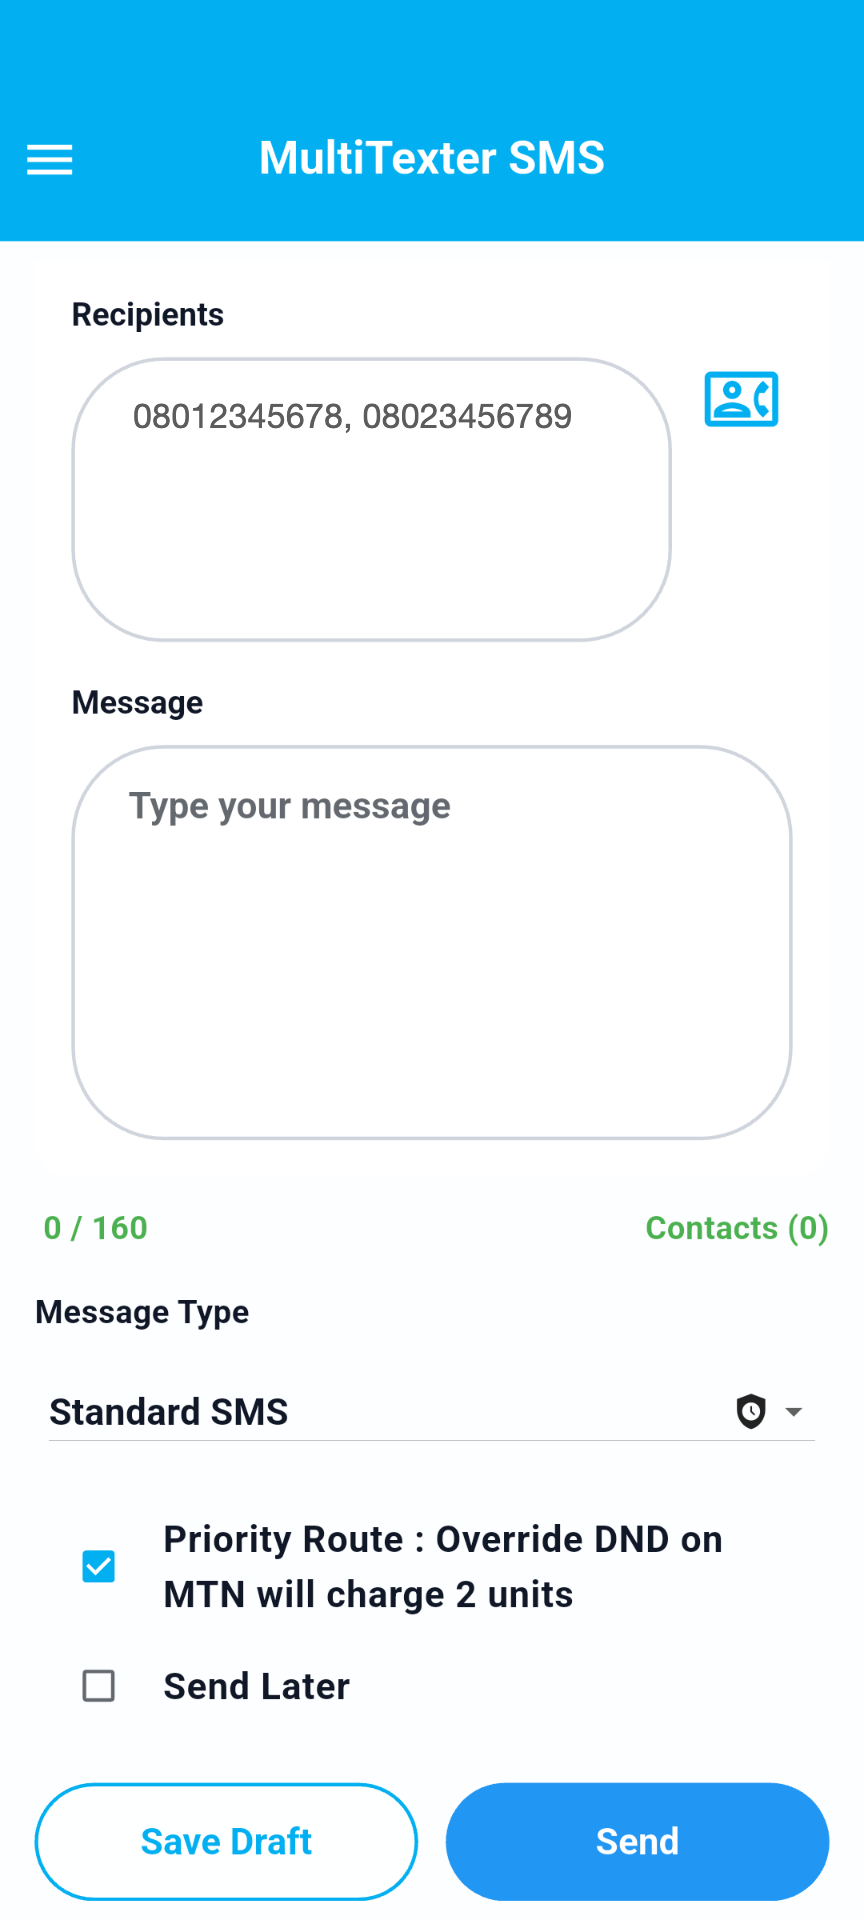
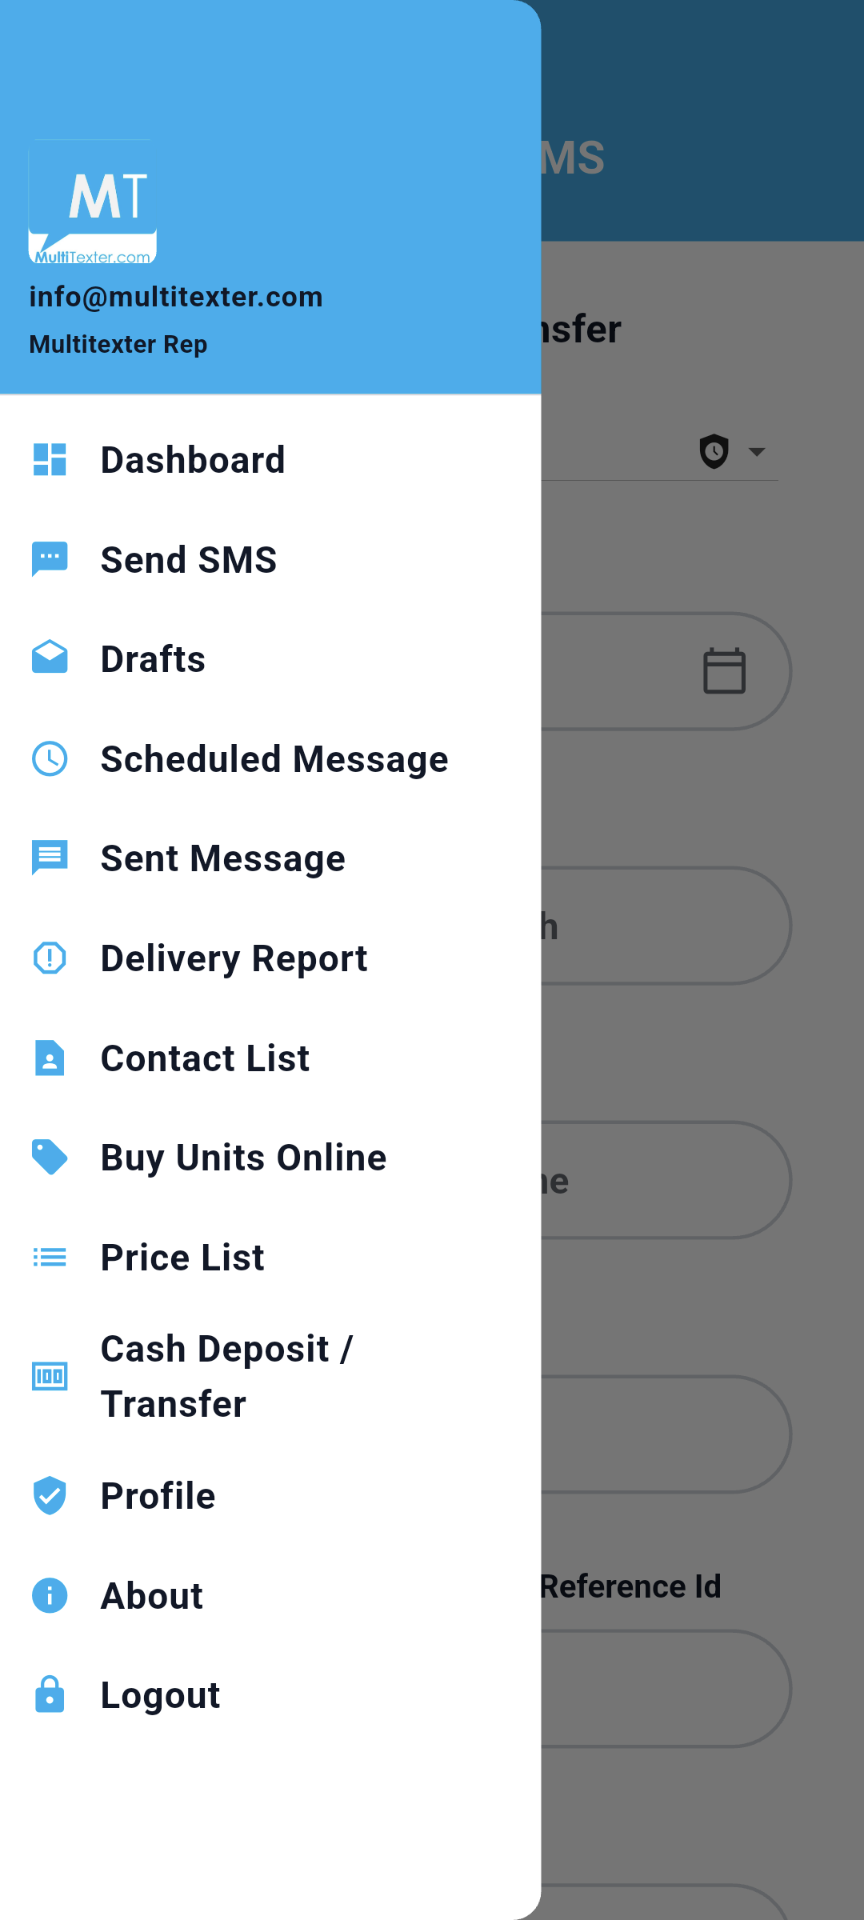
Use the navigation drawer shot for MultiTexter
Fit the whole screen in frame with a smaller phone and object-fit
contain, so the full menu is visible rather than cropped.

diff --git a/index.html b/index.html
@@ -363,6 +363,12 @@
   .work-card:hover .work-media .phone { transform: translateY(-10px); }
   .work-media .phone.crop-top img { object-position: center bottom; }
 
+  /* Fits a whole screen in frame instead of cropping to fill it */
+  .work-media.fit-shot { align-items: center; padding-top: 0; }
+  .work-media.fit-shot .phone { width: 136px; border-width: 4px; border-radius: 24px; }
+  .work-media.fit-shot .phone::after { width: 40px; height: 9px; top: 6px; }
+  .work-media.fit-shot .phone img { object-fit: contain; }
+
   .work-cover {
     position: relative;
     height: 300px;
@@ -804,10 +810,10 @@
 
         <!-- MultiTexter -->
         <article class="work-card reveal">
-          <div class="work-media">
+          <div class="work-media fit-shot">
             <span class="status status-building">Launching soon</span>
             <div class="phone">
-              <img src="images/multitexter.png" alt="MultiTexter dashboard showing unit balance and quick actions" loading="lazy"
+              <img src="images/multitexter.png" alt="MultiTexter navigation drawer listing drafts, scheduled messages, delivery reports and contact lists" loading="lazy"
                    onerror="this.replaceWith(Object.assign(document.createElement('div'), { className: 'shot-pending', textContent: 'MT' }))" />
             </div>
           </div>
